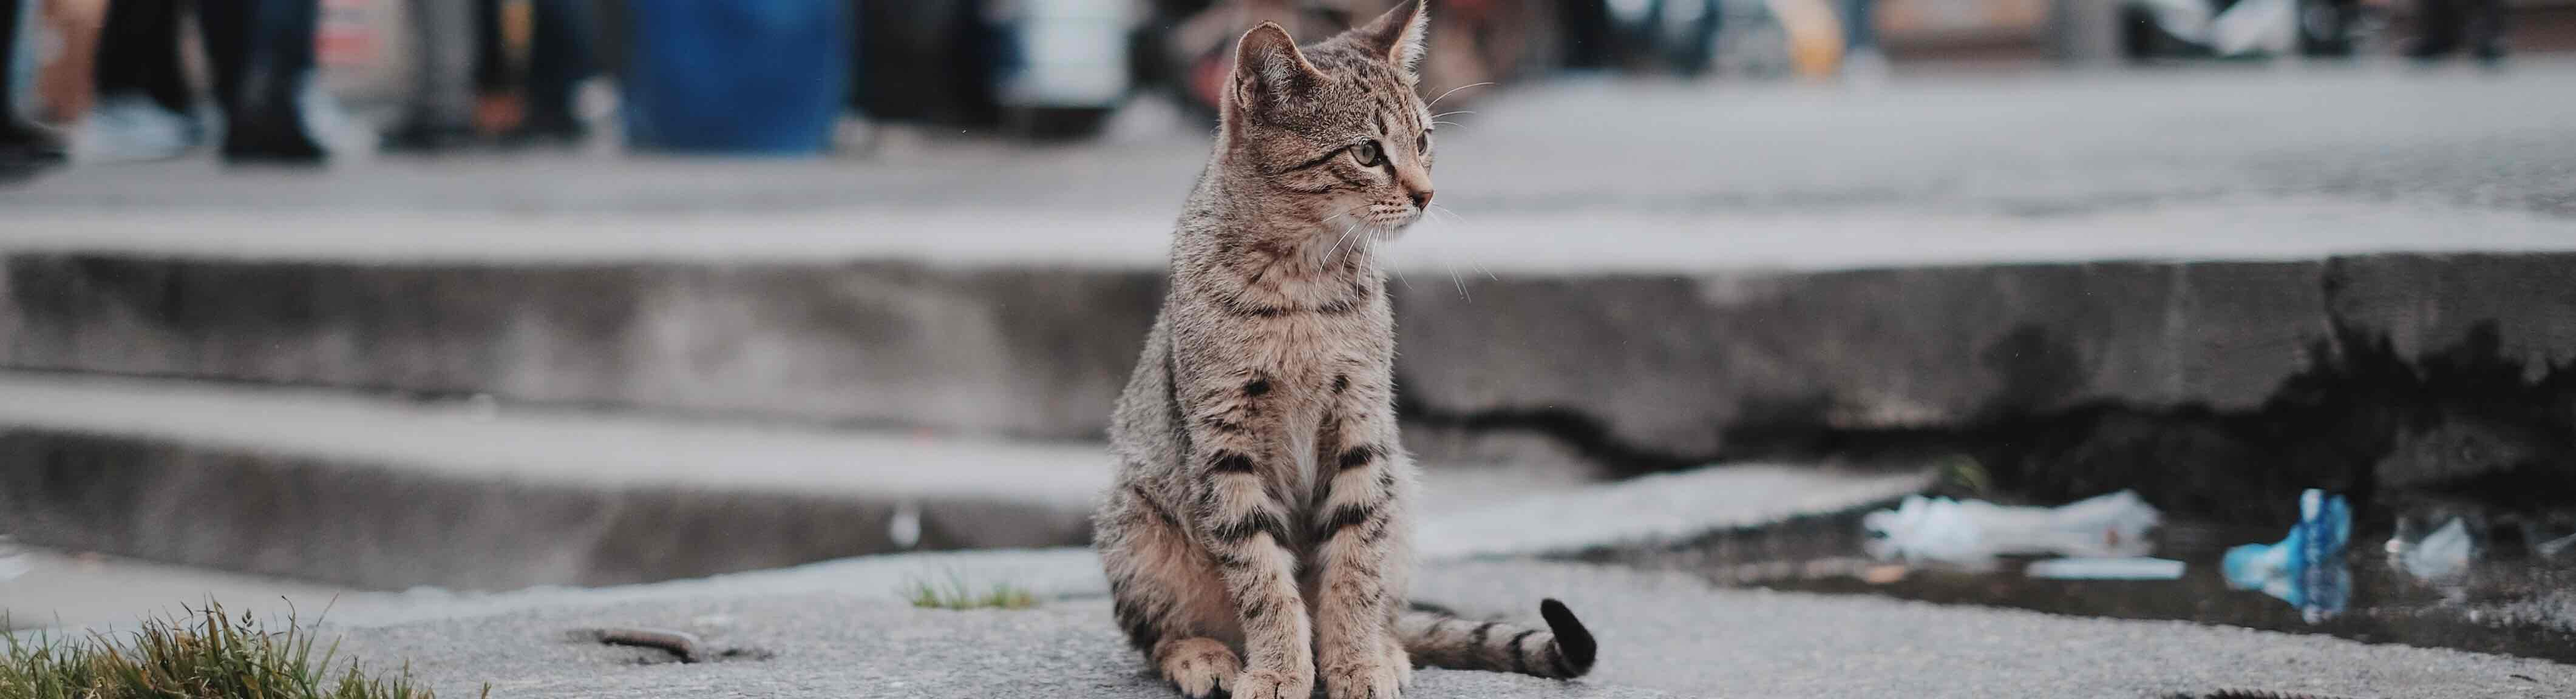
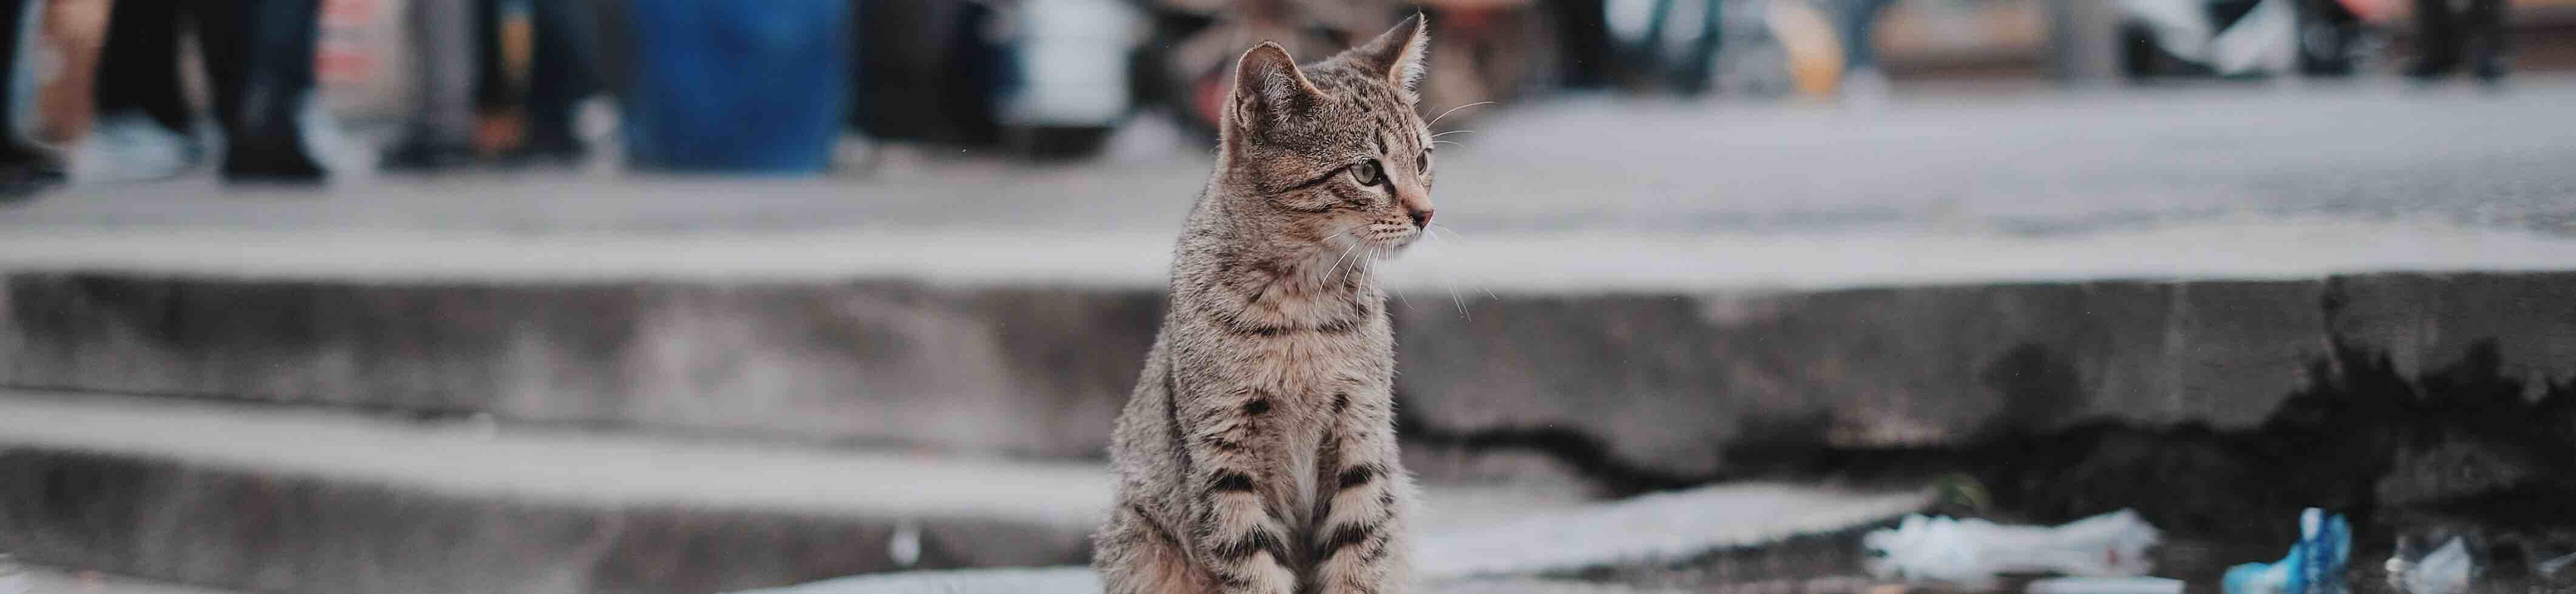
update image

diff --git a/index.html b/index.html
@@ -7,11 +7,10 @@
 # overlay_color: "#000"
 # overlay_filter: "0.2"
 # overlay_image: /assets/images/header-cat.jpeg
-  # image: ./assets/images/header-cat-cut.jpg
-title: "  "
+title: ""
 layout: home
 header:
-  overlay_image: /assets/images/header-cat.jpeg
+  image: ./assets/images/header-cat-cut.jpg
   caption: "Photo credit: [**Unsplash**](https://unsplash.com/photos/153_VPk1NZQ)"
 author_profile: true
 feature_row:
